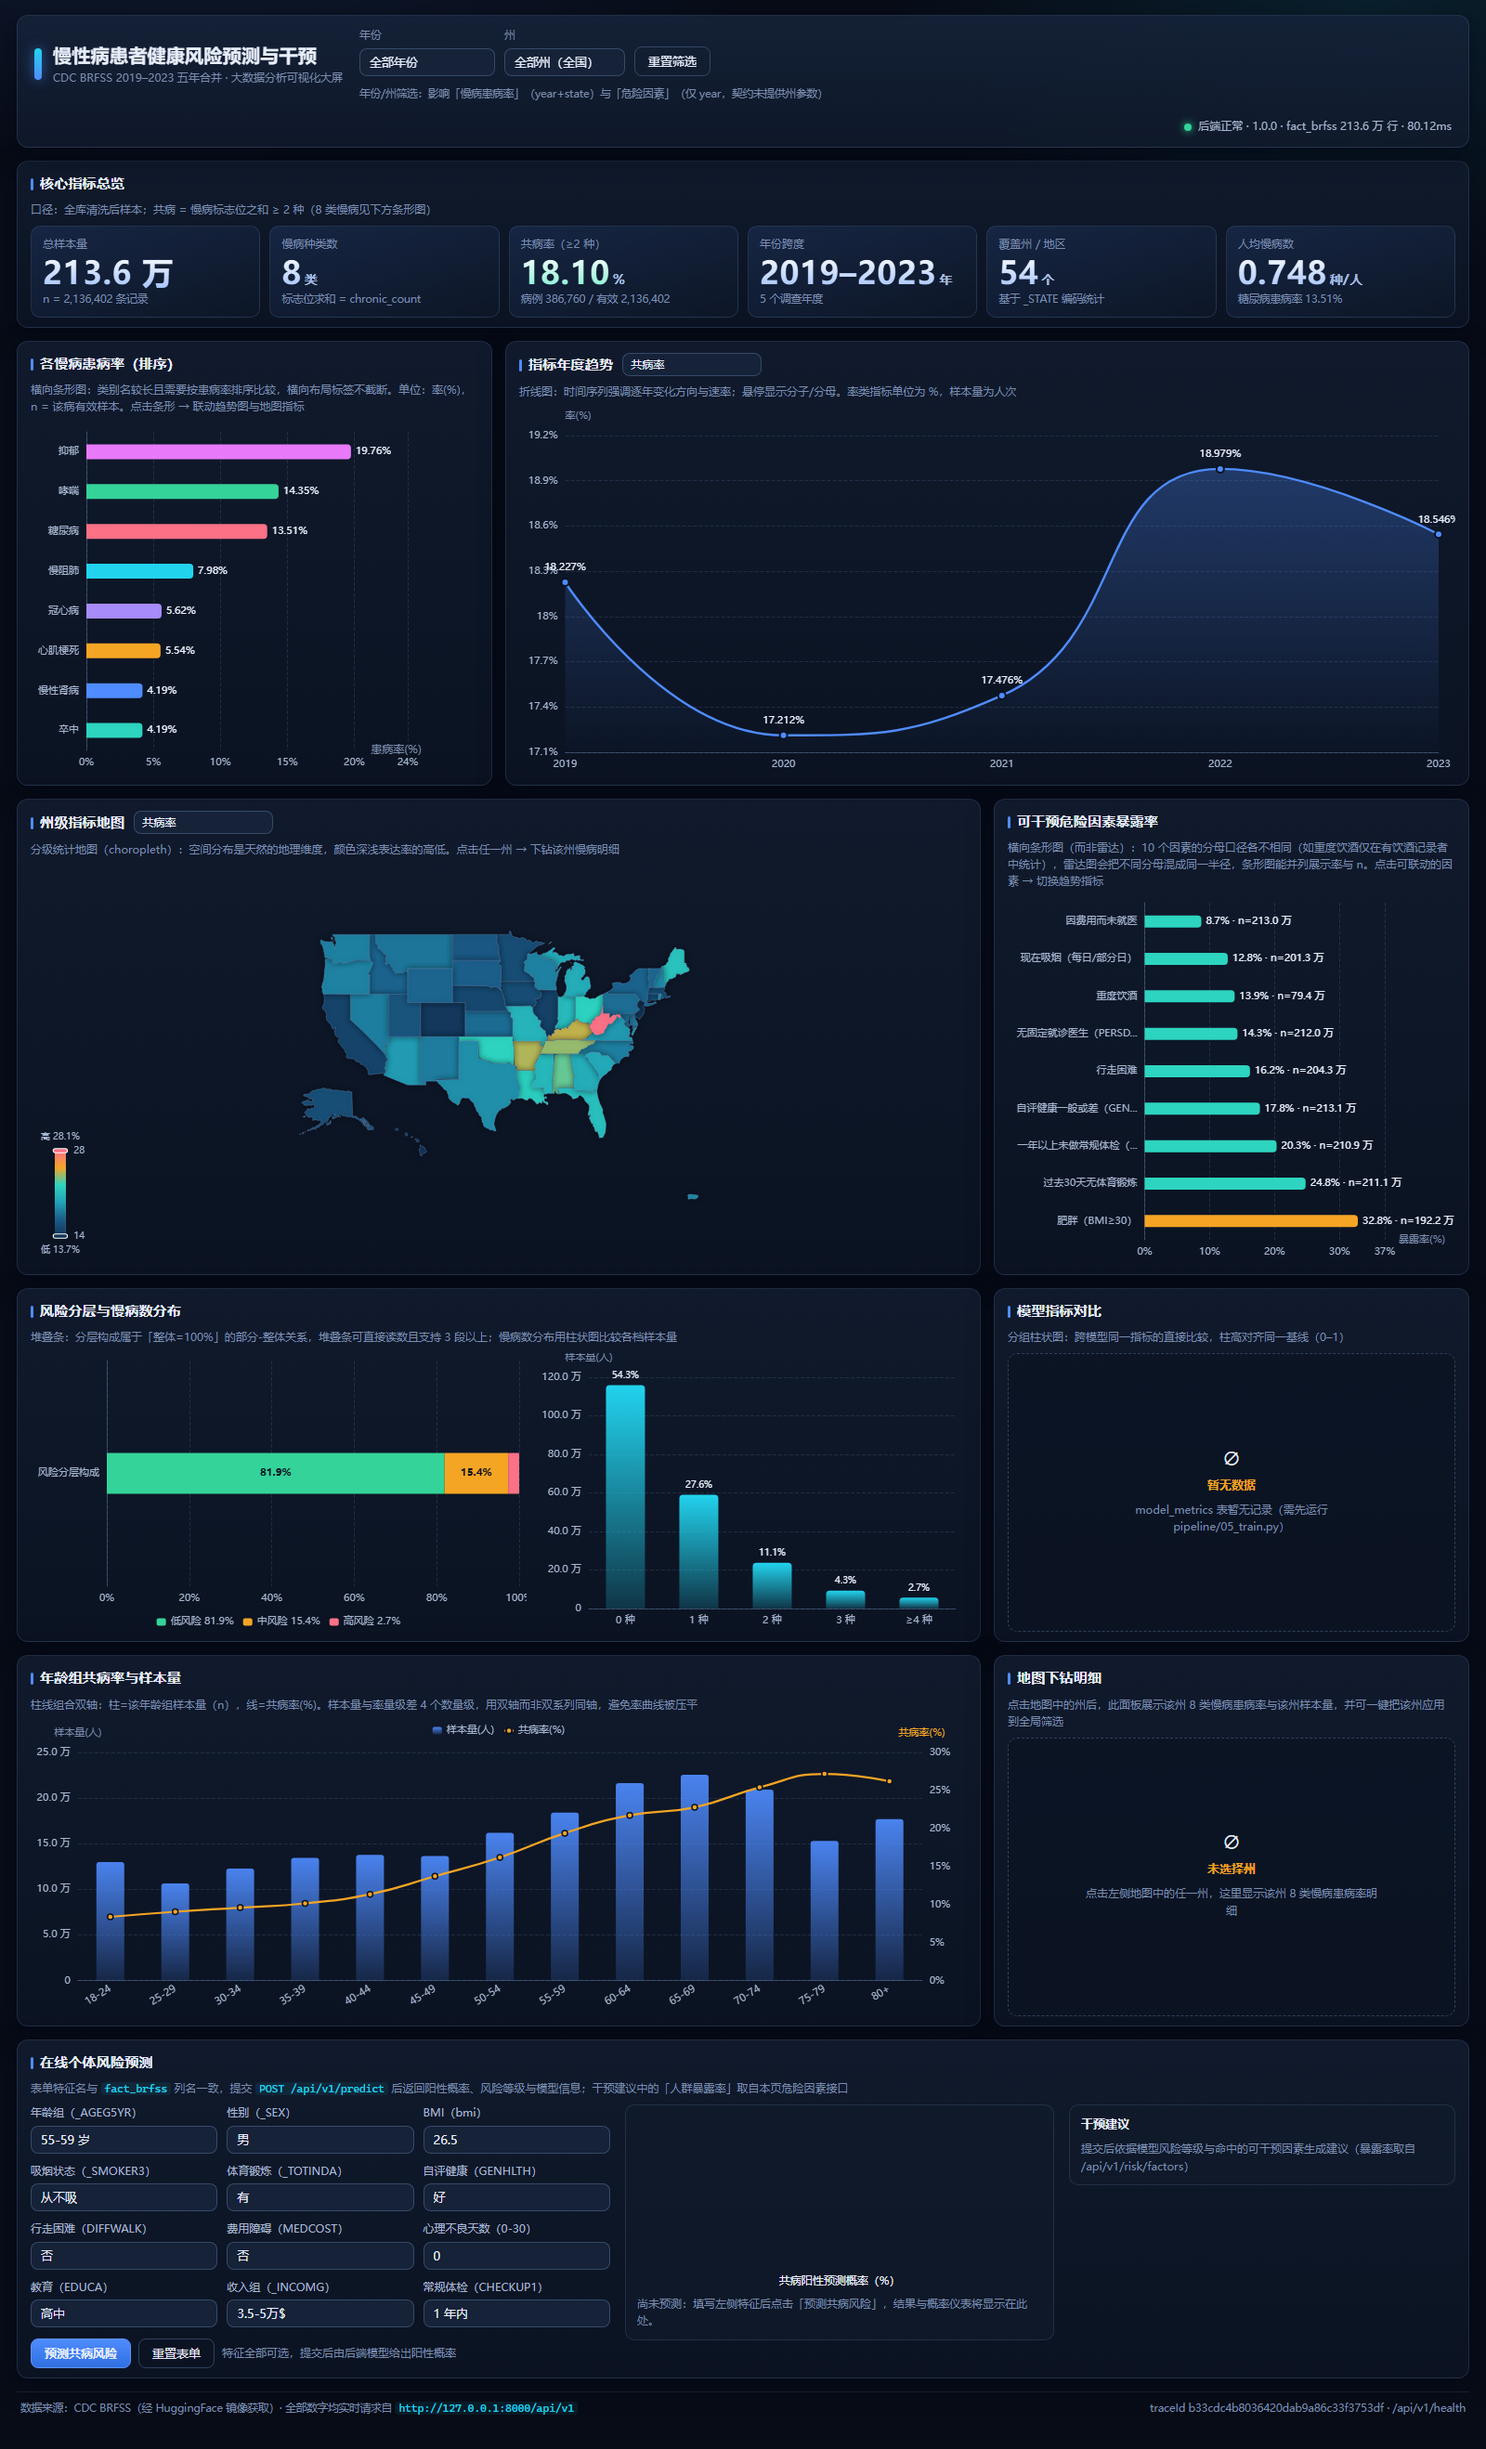
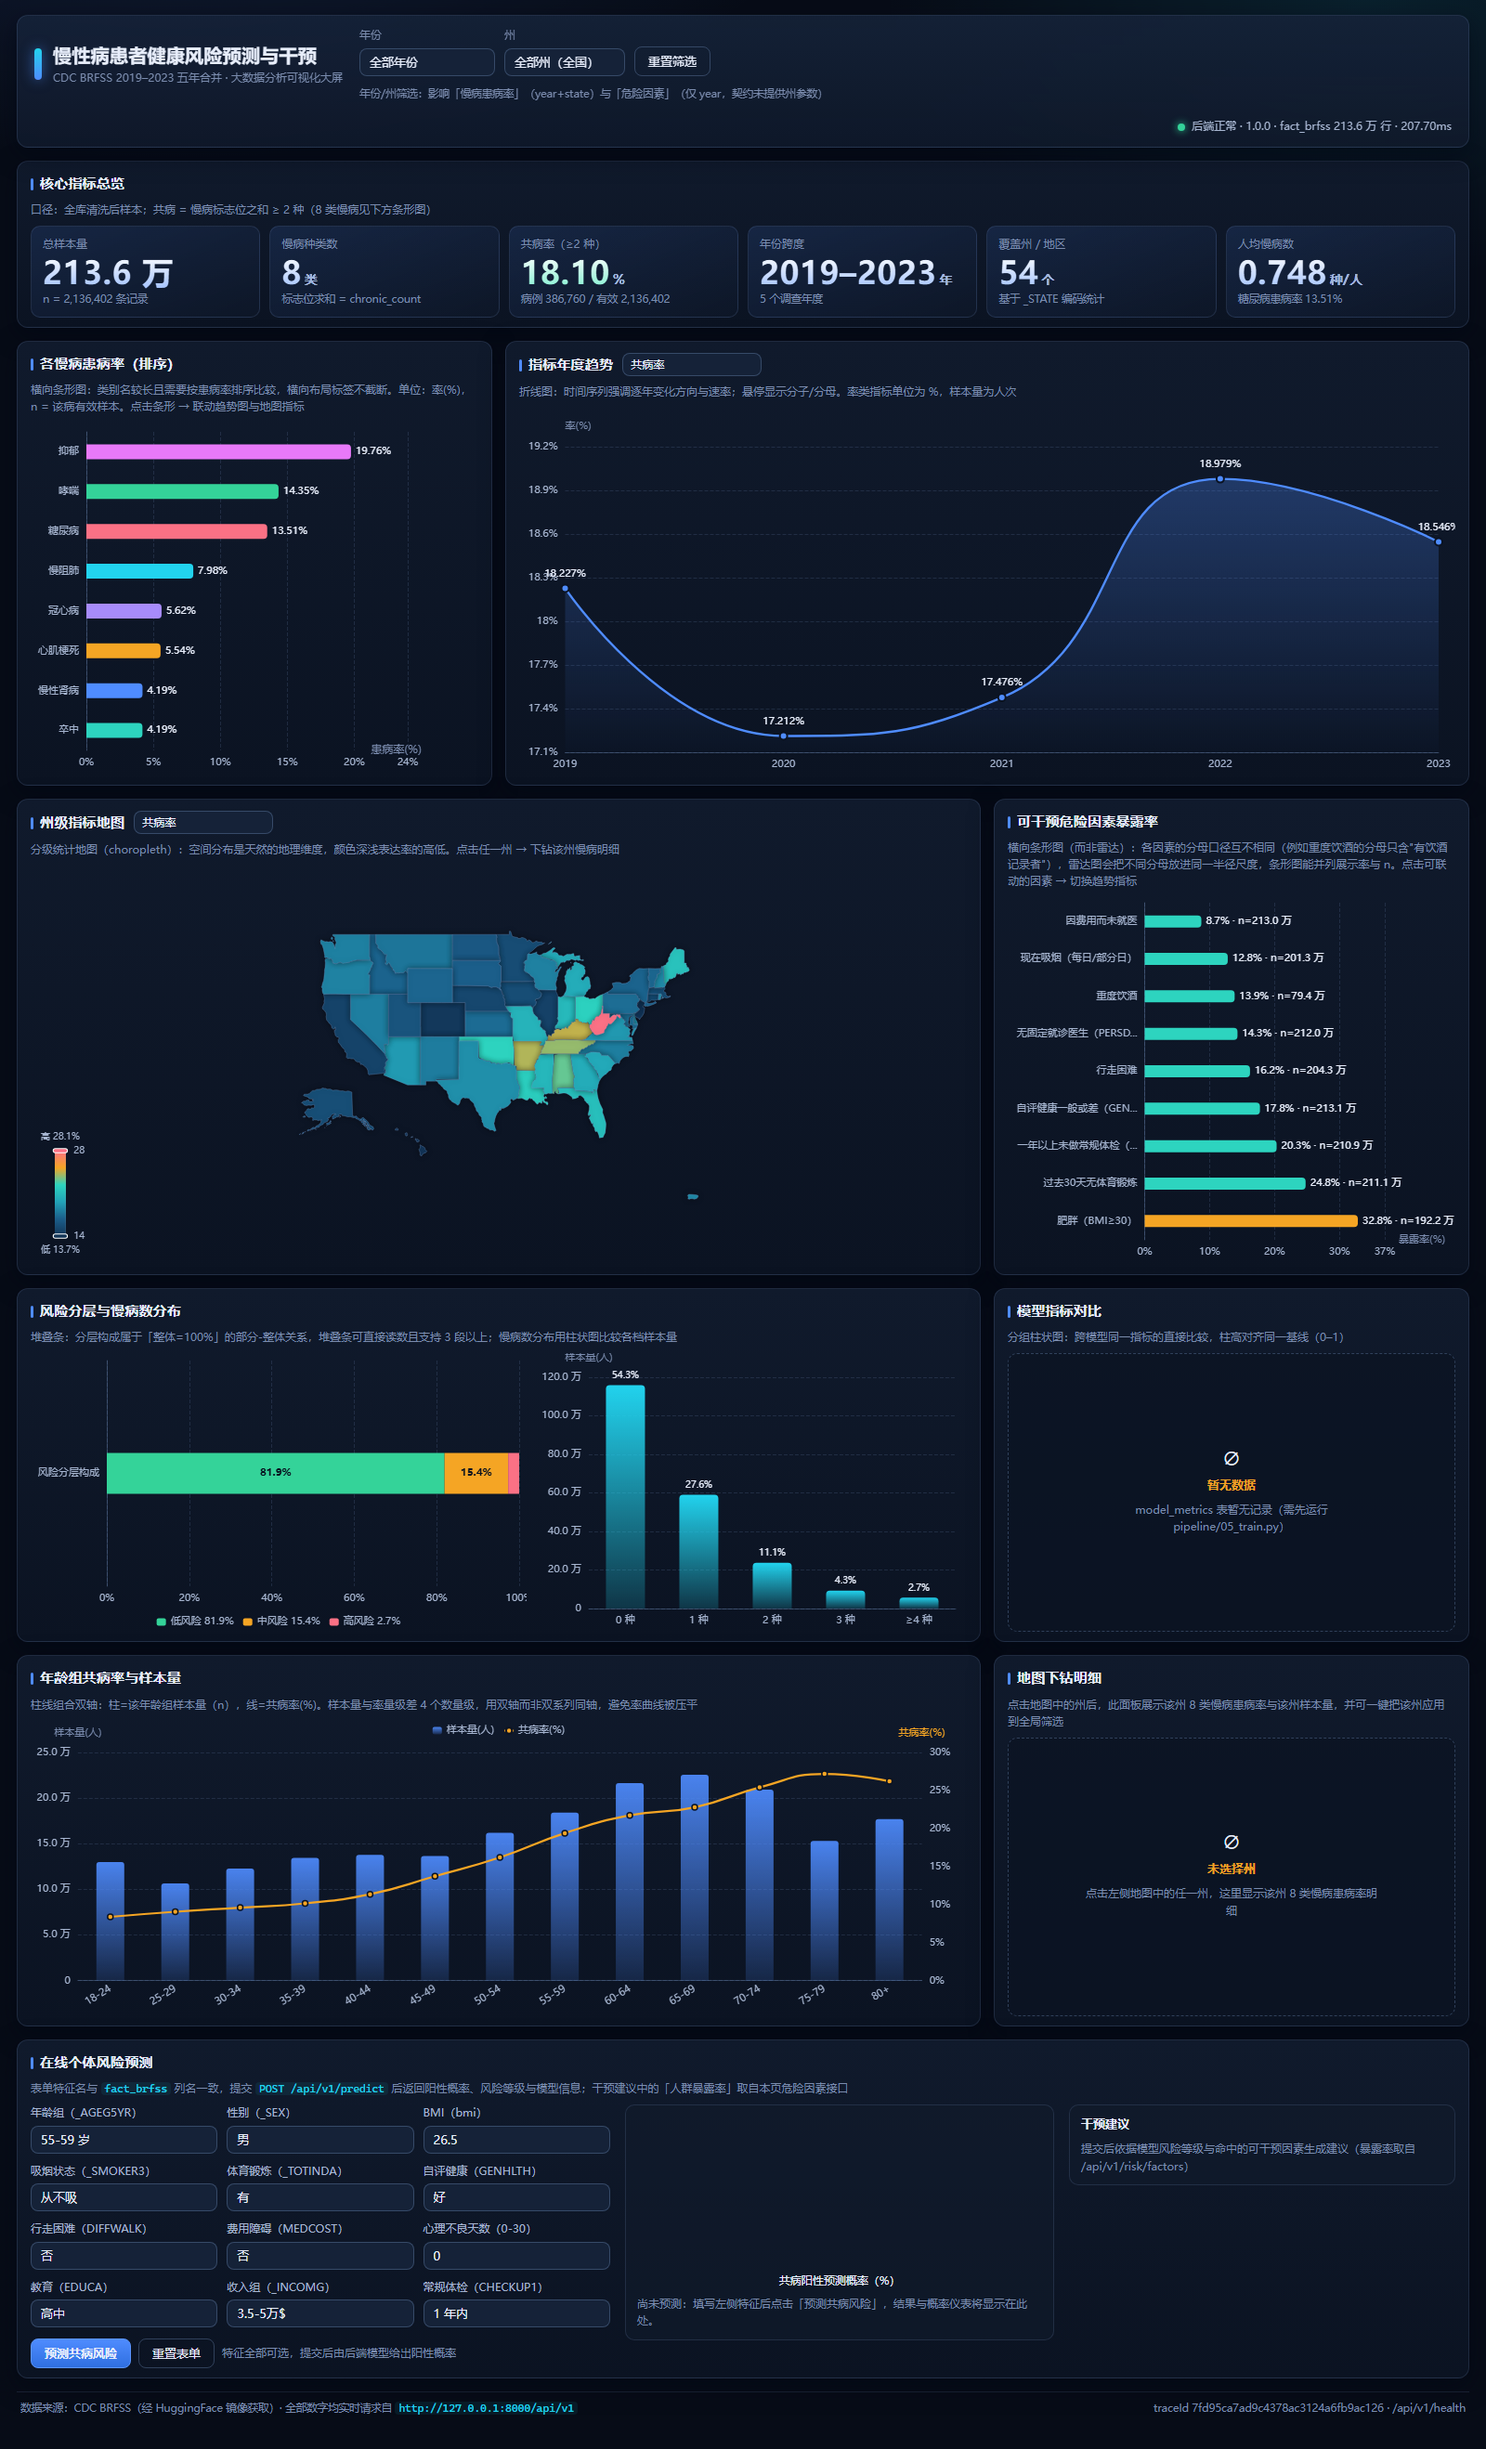
feat(web): 前端联动下钻优化与模型指标区块，补第九张界面截图

diff --git a/web/js/dict.js b/web/js/dict.js
@@ -76,12 +76,23 @@
     copd: 'copd_rate', asthma: 'asthma_rate', kidney: 'kidney_rate', depression: 'depression_rate'
   };
 
-  /* 危险因素 key（/risk/factors 的 items[].key）→ 趋势指标；无对应者不在表中 */
+  /* 危险因素 key（/risk/factors 的 items[].key）→ 趋势指标；无对应者不在表中。
+     后端在不同阶段的 key 命名有别名（如 no_physical_activity / no_phys_activity），
+     这里同时登记，避免契约微调导致联动静默失效。 */
   var FACTOR_TO_METRIC = {
     obese: 'obese_rate',
     current_smoker: 'smoker_rate',
     no_physical_activity: 'inactivity_rate',
+    no_phys_activity: 'inactivity_rate',
     heavy_drink: 'heavy_drink_rate'
+  };
+
+  /* 危险因素 key 别名（历史命名 → 当前契约命名），仅用于把接口返回的 key 归一到规则里用的名字 */
+  var FACTOR_ALIAS = {
+    no_phys_activity: 'no_physical_activity',
+    diff_walk: 'walking_difficulty',
+    fair_poor_health: 'fair_or_poor_health',
+    checkup_over_1y: 'never_checkup'
   };
 
   /* ---------- 图表色板（与 CSS 变量同源，供 ECharts 使用） ---------- */
@@ -155,10 +166,10 @@
     { name: 'sex', label: '性别（_SEX）', type: 'select', options: [[1, '男'], [2, '女']], default: 1 },
     { name: 'bmi', label: 'BMI（bmi）', type: 'number', min: 10, max: 70, step: 0.1, default: 26.5 },
     { name: 'smoker3', label: '吸烟状态（_SMOKER3）', type: 'select', options: [[1, '每日吸'], [2, '部分日吸'], [3, '曾经吸'], [4, '从不吸']], default: 4 },
-    { name: 'phys_activity', label: '体育锻炼（_TOTINDA）', type: 'select', options: [[1, '有'], [2, '无']], default: 1 },
+    { name: 'phys_activity', label: '体育锻炼（_TOTINDA）', type: 'select', options: [[1, '有锻炼'], [0, '无锻炼']], default: 1 },
     { name: 'genhlth', label: '自评健康（GENHLTH）', type: 'select', options: [[1, '优'], [2, '很好'], [3, '好'], [4, '一般'], [5, '差']], default: 3 },
-    { name: 'diffwalk', label: '行走困难（DIFFWALK）', type: 'select', options: [[1, '是'], [2, '否']], default: 2 },
-    { name: 'medcost', label: '费用障碍（MEDCOST）', type: 'select', options: [[1, '是'], [2, '否']], default: 2 },
+    { name: 'diffwalk', label: '行走困难（DIFFWALK）', type: 'select', options: [[1, '是'], [0, '否']], default: 0 },
+    { name: 'medcost', label: '费用障碍（MEDCOST）', type: 'select', options: [[1, '是'], [0, '否']], default: 0 },
     { name: 'menthlth', label: '心理不良天数（0-30）', type: 'number', min: 0, max: 30, step: 1, default: 0 },
     { name: 'educa', label: '教育（EDUCA）', type: 'select', options: [[1, '未上学'], [2, '小学'], [3, '初中'], [4, '高中'], [5, '大学肄业'], [6, '大学毕业']], default: 4 },
     { name: 'income_grp', label: '收入组（_INCOMG）', type: 'select', options: [[1, '<1.5万$'], [2, '1.5-2万$'], [3, '2-2.5万$'], [4, '2.5-3.5万$'], [5, '3.5-5万$'], [6, '5-7.5万$'], [7, '7.5-10万$'], [8, '≥10万$']], default: 5 },
@@ -173,7 +184,7 @@
       text: '戒烟干预：转介戒烟门诊 / 尼古丁替代疗法，重点降低心血管与慢阻肺风险'
     },
     {
-      id: 'inactivity', match: function (v) { return v.phys_activity === 2; },
+      id: 'inactivity', match: function (v) { return v.phys_activity === 0; },
       tier: '高优先级', factorKey: 'no_physical_activity',
       text: '运动处方：从每周 3×20 分钟快走起步，逐步达到每周 ≥150 分钟中等强度活动'
     },
@@ -188,7 +199,7 @@
       text: '自评健康偏差：安排综合健康评估（含慢病并发症筛查）并缩短随访间隔'
     },
     {
-      id: 'diffwalk', match: function (v) { return v.diffwalk === 1; },
+      id: 'diffwalk', match: function (v) { return v.diffwalk === 1 || v.diffwalk === 2; },
       tier: '中优先级', factorKey: 'walking_difficulty',
       text: '行走受限：转康复科做运动能力评估，制定低冲击训练与跌倒预防方案'
     },
@@ -218,7 +229,7 @@
     FIPS: FIPS, NO_GEOMETRY: NO_GEOMETRY,
     padFips: padFips, stateName: stateName, stateShort: stateShort, stateFull: stateFull,
     METRICS: METRICS, METRIC_BY_KEY: METRIC_BY_KEY,
-    DISEASE_TO_METRIC: DISEASE_TO_METRIC, FACTOR_TO_METRIC: FACTOR_TO_METRIC,
+    DISEASE_TO_METRIC: DISEASE_TO_METRIC, FACTOR_TO_METRIC: FACTOR_TO_METRIC, FACTOR_ALIAS: FACTOR_ALIAS,
     PALETTE: PALETTE, DISEASE_COLOR: DISEASE_COLOR,
     AGE_GROUPS: AGE_GROUPS, PREDICT_FIELDS: PREDICT_FIELDS, ADVICE_RULES: ADVICE_RULES,
     pct: pct, int: int, compact: compact, metricValue: metricValue, metricUnit: metricUnit,

diff --git a/web/js/app.js b/web/js/app.js
@@ -694,11 +694,13 @@
       lines.innerHTML =
         '<div class="result-line"><span>风险等级</span><b><span class="risk-tag ' + levelClass + '">' + escapeHtml(data.riskLevel) + '</span></b></div>' +
         '<div class="result-line"><span>阳性概率</span><b>' + D.pct(data.probability, 2) + '</b></div>' +
-        '<div class="result-line"><span>预测标签</span><b>' + (data.prediction === 1 ? '共病阳性' : '共病阴性') + '</b></div>' +
+        '<div class="result-line"><span>预测标签（0.5 判定）</span><b>' + (data.prediction === 1 ? '共病阳性' : '共病阴性') + '</b></div>' +
         '<div class="result-line"><span>判定阈值</span><b>中 ≥ ' + D.pct(thr.low, 0) + ' · 高 ≥ ' + D.pct(thr.high, 0) + '</b></div>' +
         '<div class="result-line"><span>模型文件</span><b>' + escapeHtml((data.model && data.model.fileName) || '—') + '</b></div>' +
         '<div class="result-line"><span>缺失特征</span><b>' + ((data.missingFeatures && data.missingFeatures.length) ? escapeHtml(data.missingFeatures.length + ' 个（已按缺失值处理）') : '无') + '</b></div>' +
-        '<div class="result-line"><span>接口延迟</span><b>' + (data.latencyMs == null ? '—' : data.latencyMs) + ' ms</b></div>';
+        '<div class="result-line"><span>接口延迟</span><b>' + (data.latencyMs == null ? '—' : data.latencyMs) + ' ms</b></div>' +
+        '<p class="drill-meta" style="margin-top:6px">口径：风险等级按后端阈值（中 ≥ ' + D.pct(thr.low, 0) + '、高 ≥ ' + D.pct(thr.high, 0) + '）分档，' +
+        '与"预测标签"的 0.5 判定是两个不同口径，可能同时出现"高风险 + 标签阴性"。</p>';
     }
     renderAdvice(data);
   }
@@ -712,7 +714,11 @@
     });
     var factorIndex = {};
     var factors = (state.cache.factors && state.cache.factors.items) || [];
-    factors.forEach(function (it) { factorIndex[it.key] = it; });
+    factors.forEach(function (it) {
+      factorIndex[it.key] = it;
+      var alias = D.FACTOR_ALIAS[it.key];
+      if (alias) factorIndex[alias] = it;   /* 兼容后端 key 命名调整 */
+    });
 
     var base = [];
     if (data.riskLevel === '高风险') {

diff --git a/web/index.html b/web/index.html
@@ -83,7 +83,7 @@
   <section class="panel span-1" id="panel-factors">
     <div class="panel-head">
       <h2>可干预危险因素暴露率</h2>
-      <p class="panel-hint">横向条形图（而非雷达）：10 个因素的分母口径各不相同（如重度饮酒仅在有饮酒记录者中统计），雷达图会把不同分母混成同一半径，条形图能并列展示率与 n。点击可联动的因素 → 切换趋势指标</p>
+      <p class="panel-hint">横向条形图（而非雷达）：各因素的分母口径互不相同（例如重度饮酒的分母只含"有饮酒记录者"），雷达图会把不同分母放进同一半径尺度，条形图能并列展示率与 n。点击可联动的因素 → 切换趋势指标</p>
     </div>
     <div class="panel-body" data-body></div>
   </section>

diff --git a/web/js/charts.js b/web/js/charts.js
@@ -161,7 +161,7 @@
     var unitText = isRatio ? '率(%)' : (payload.metric === 'chronic_avg' ? '种/人' : '样本量(人)');
     return {
       animationDuration: 420,
-      grid: { left: 10, right: 18, top: 30, bottom: 6, containLabel: true },
+      grid: { left: 10, right: 18, top: 42, bottom: 6, containLabel: true },
       tooltip: Object.assign({
         trigger: 'axis',
         formatter: function (ps) {
@@ -188,6 +188,7 @@
       yAxis: {
         type: 'value',
         name: unitText,
+        nameGap: 16,
         nameTextStyle: { color: P.dim, fontSize: 11, align: 'left' },
         scale: true,
         axisLabel: Object.assign({ formatter: isRatio ? '{value}%' : '{value}' }, AXIS_LABEL),

diff --git a/web/js/api.js b/web/js/api.js
@@ -164,7 +164,8 @@
       return request(path, Object.assign({ method: 'POST', body: body }, options || {}));
     },
     health: function (options) {
-      return request('/api/v1/health', Object.assign({ retries: 1, timeoutMs: 4000 }, options || {}));
+      /* 模型首次加载时后端可能瞬时变慢，健康检查给 8s，避免误报"未连接" */
+      return request('/api/v1/health', Object.assign({ retries: 1, timeoutMs: 8000 }, options || {}));
     }
   };
 })(window.BRFSS = window.BRFSS || {});
